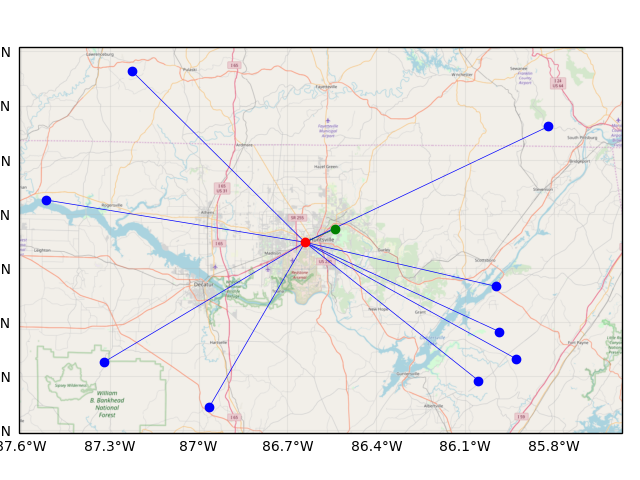
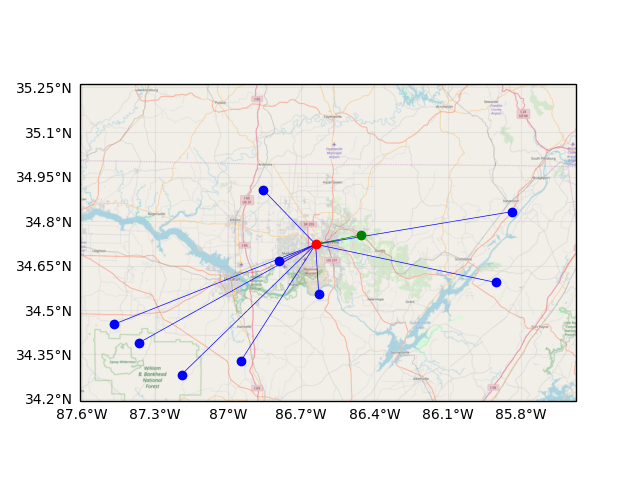
invert long input, fix path plotter

Changed region(s): [[0.0, 0.0938, 1.0, 0.9375], [0.7812, 0.625, 0.8125, 0.6562], [0.4375, 0.25, 0.4688, 0.2812]]

diff --git a/flights/simulation/mapplot.py b/flights/simulation/mapplot.py
@@ -15,7 +15,8 @@ class MapPlotter():
         ax = plt.axes(projection=self.request.crs)
 
         # assume we're near to huntsville
-        ax.set_extent([-87.6073, -85.573, 34.1928, 35.2612])
+        extent = MapPlotter.find_extent(self.coordinates)
+        ax.set_extent(extent)
         ax.add_image(self.request, 10, interpolation='bilinear', zorder=0)
 
         gl = ax.gridlines(draw_labels=True, alpha=0.2)
@@ -24,6 +25,7 @@ class MapPlotter():
         gl.yformatter = LATITUDE_FORMATTER
 
     def plot_locations(self, best):
+        print(f'init long: {self.coordinates["longs"][0]}, init lat: {self.coordinates["lats"][0]}')
         plt.scatter(self.coordinates["longs"][0], self.coordinates["lats"][0],  # put our initial location in red
                     color='red', zorder=2, transform=ccrs.Geodetic())
 
@@ -44,18 +46,33 @@ class MapPlotter():
                             color='blue', zorder=2, transform=ccrs.Geodetic())
 
     def plot_path(self):
-        print(f"\n init long: {self.coordinates["longs"][0]}, init lat: {self.coordinates["lats"][0]}")
+        print(f'init long: {self.coordinates["longs"][0]}, init lat: {self.coordinates["lats"][0]}')
         plt.scatter(self.coordinates["longs"][0], self.coordinates["lats"][0],  # put our initial location in red
-                    color='red', zorder=2, transform=ccrs.Geodetic())
+                    color='red', zorder=3, transform=ccrs.Geodetic())
 
         for i in range(1, len(self.coordinates["longs"])):
             plt.plot([self.coordinates["longs"][i-1], self.coordinates["longs"][i]],
                      [self.coordinates["lats"][i-1], self.coordinates["lats"][i]],
                      color='blue', linewidth=0.5, zorder=1, transform=ccrs.Geodetic())  # plot path from the previous point to the current
 
+            print(f'Plotting: {self.coordinates["longs"][i]}, {self.coordinates["lats"][i]}')
             plt.scatter(self.coordinates["longs"][i], self.coordinates["lats"][i],  # scatter the current location seperately
                         color='blue', zorder=2, transform=ccrs.Geodetic())
 
     def show(self, filename):
         plt.savefig(filename)
         plt.show()
+
+    @staticmethod
+    def find_extent(coordinates):
+        extent = [coordinates["longs"][0], coordinates["longs"][0], coordinates["lats"][0], coordinates["lats"][0]] # x0, x1, y0, y1
+        for i in range(len(coordinates["longs"])):
+            if coordinates["longs"][i] < extent[0]: # bottom left
+                extent[0] = coordinates["longs"][i]
+            if coordinates["longs"][i] > extent[1]: # top right
+                extent[1] = coordinates["longs"][i]
+            if coordinates["lats"][i] < extent[2]: # bottom left
+                extent[2] = coordinates["lats"][i]
+            if coordinates["lats"][i] > extent[3]: # top right
+                extent[3] = coordinates["lats"][i]
+        return extent

diff --git a/flights/simulation/main.py b/flights/simulation/main.py
@@ -12,24 +12,28 @@ def main():
     sheet = wb.sheet_by_index(0)
 
     data = {"longs": [], "lats": []}
-    for i in range(sheet.nrows):
-        data["lats"].append(sheet.cell_value(i, 4))
-        data["longs"].append(sheet.cell_value(i, 5))
+    for i in range(1,sheet.nrows):
+        if (float(sheet.cell_value(i, 4)), float(sheet.cell_value(i, 5))) != (0.0,0.0): # don't include any (0.0, 0.0) points in the list
+            data["lats"].append(float(sheet.cell_value(i, 4)))
+            data["longs"].append(float(sheet.cell_value(i, 5))*-1) # longitude is stored in positive, needs to be negative for USA
 
-    # with open("generated-ouputs.txt", "r") as f:
-    #     for i in range(5):
-    #         gen = pointgen.PointGenerator()
-    #         gen.generate(10)
-    #         print(gen)
-    #         f.write(gen.__str__())
+    with open("generated-ouputs.txt", "w") as f:
+        for i in range(5):
+            gen = pointgen.PointGenerator()
+            gen.generate(10)
+            print(gen)
+            f.write(gen.__str__())
 
+    # print("Generating locations map.")
     # mpl = mapplot.MapPlotter(gen.points)
     # mpl.plot_locations(int(gen.find_best()))
     # mpl.show("locations.png")
 
-    mpp = mapplot.MapPlotter(data)
+    print("Generating path map.")
+    mpp = mapplot.MapPlotter(gen.points)
     mpp.plot_path()
     mpp.show("path.png")
 
+    print("Done!")
 if __name__ == "__main__":
     main()

diff --git a/flights/simulation/pointgen.py b/flights/simulation/pointgen.py
@@ -9,7 +9,6 @@ Author: Sean Widmier
 import math
 import random
 
-
 class PointGenerator:
     def __init__(self):
         self.points = {"longs": [], "lats": []}
@@ -44,13 +43,13 @@ class PointGenerator:
                 PointGenerator.calc_weight(area, distance)
             ]
 
-    def __repr__(self):
+    def __str__(self):
         res = ""
         for x in self.vectors:
             # print location #, area, and distance
             res += f"{x}: <{self.vectors[x][0]:.3f}>({self.vectors[x][1]:.3f})\n"
 
-        res += f"\nExpected output: {self.find_best()}\n"
+        res += f"Expected output: {self.find_best()}\n"
         return res
 
     def find_best(self):
